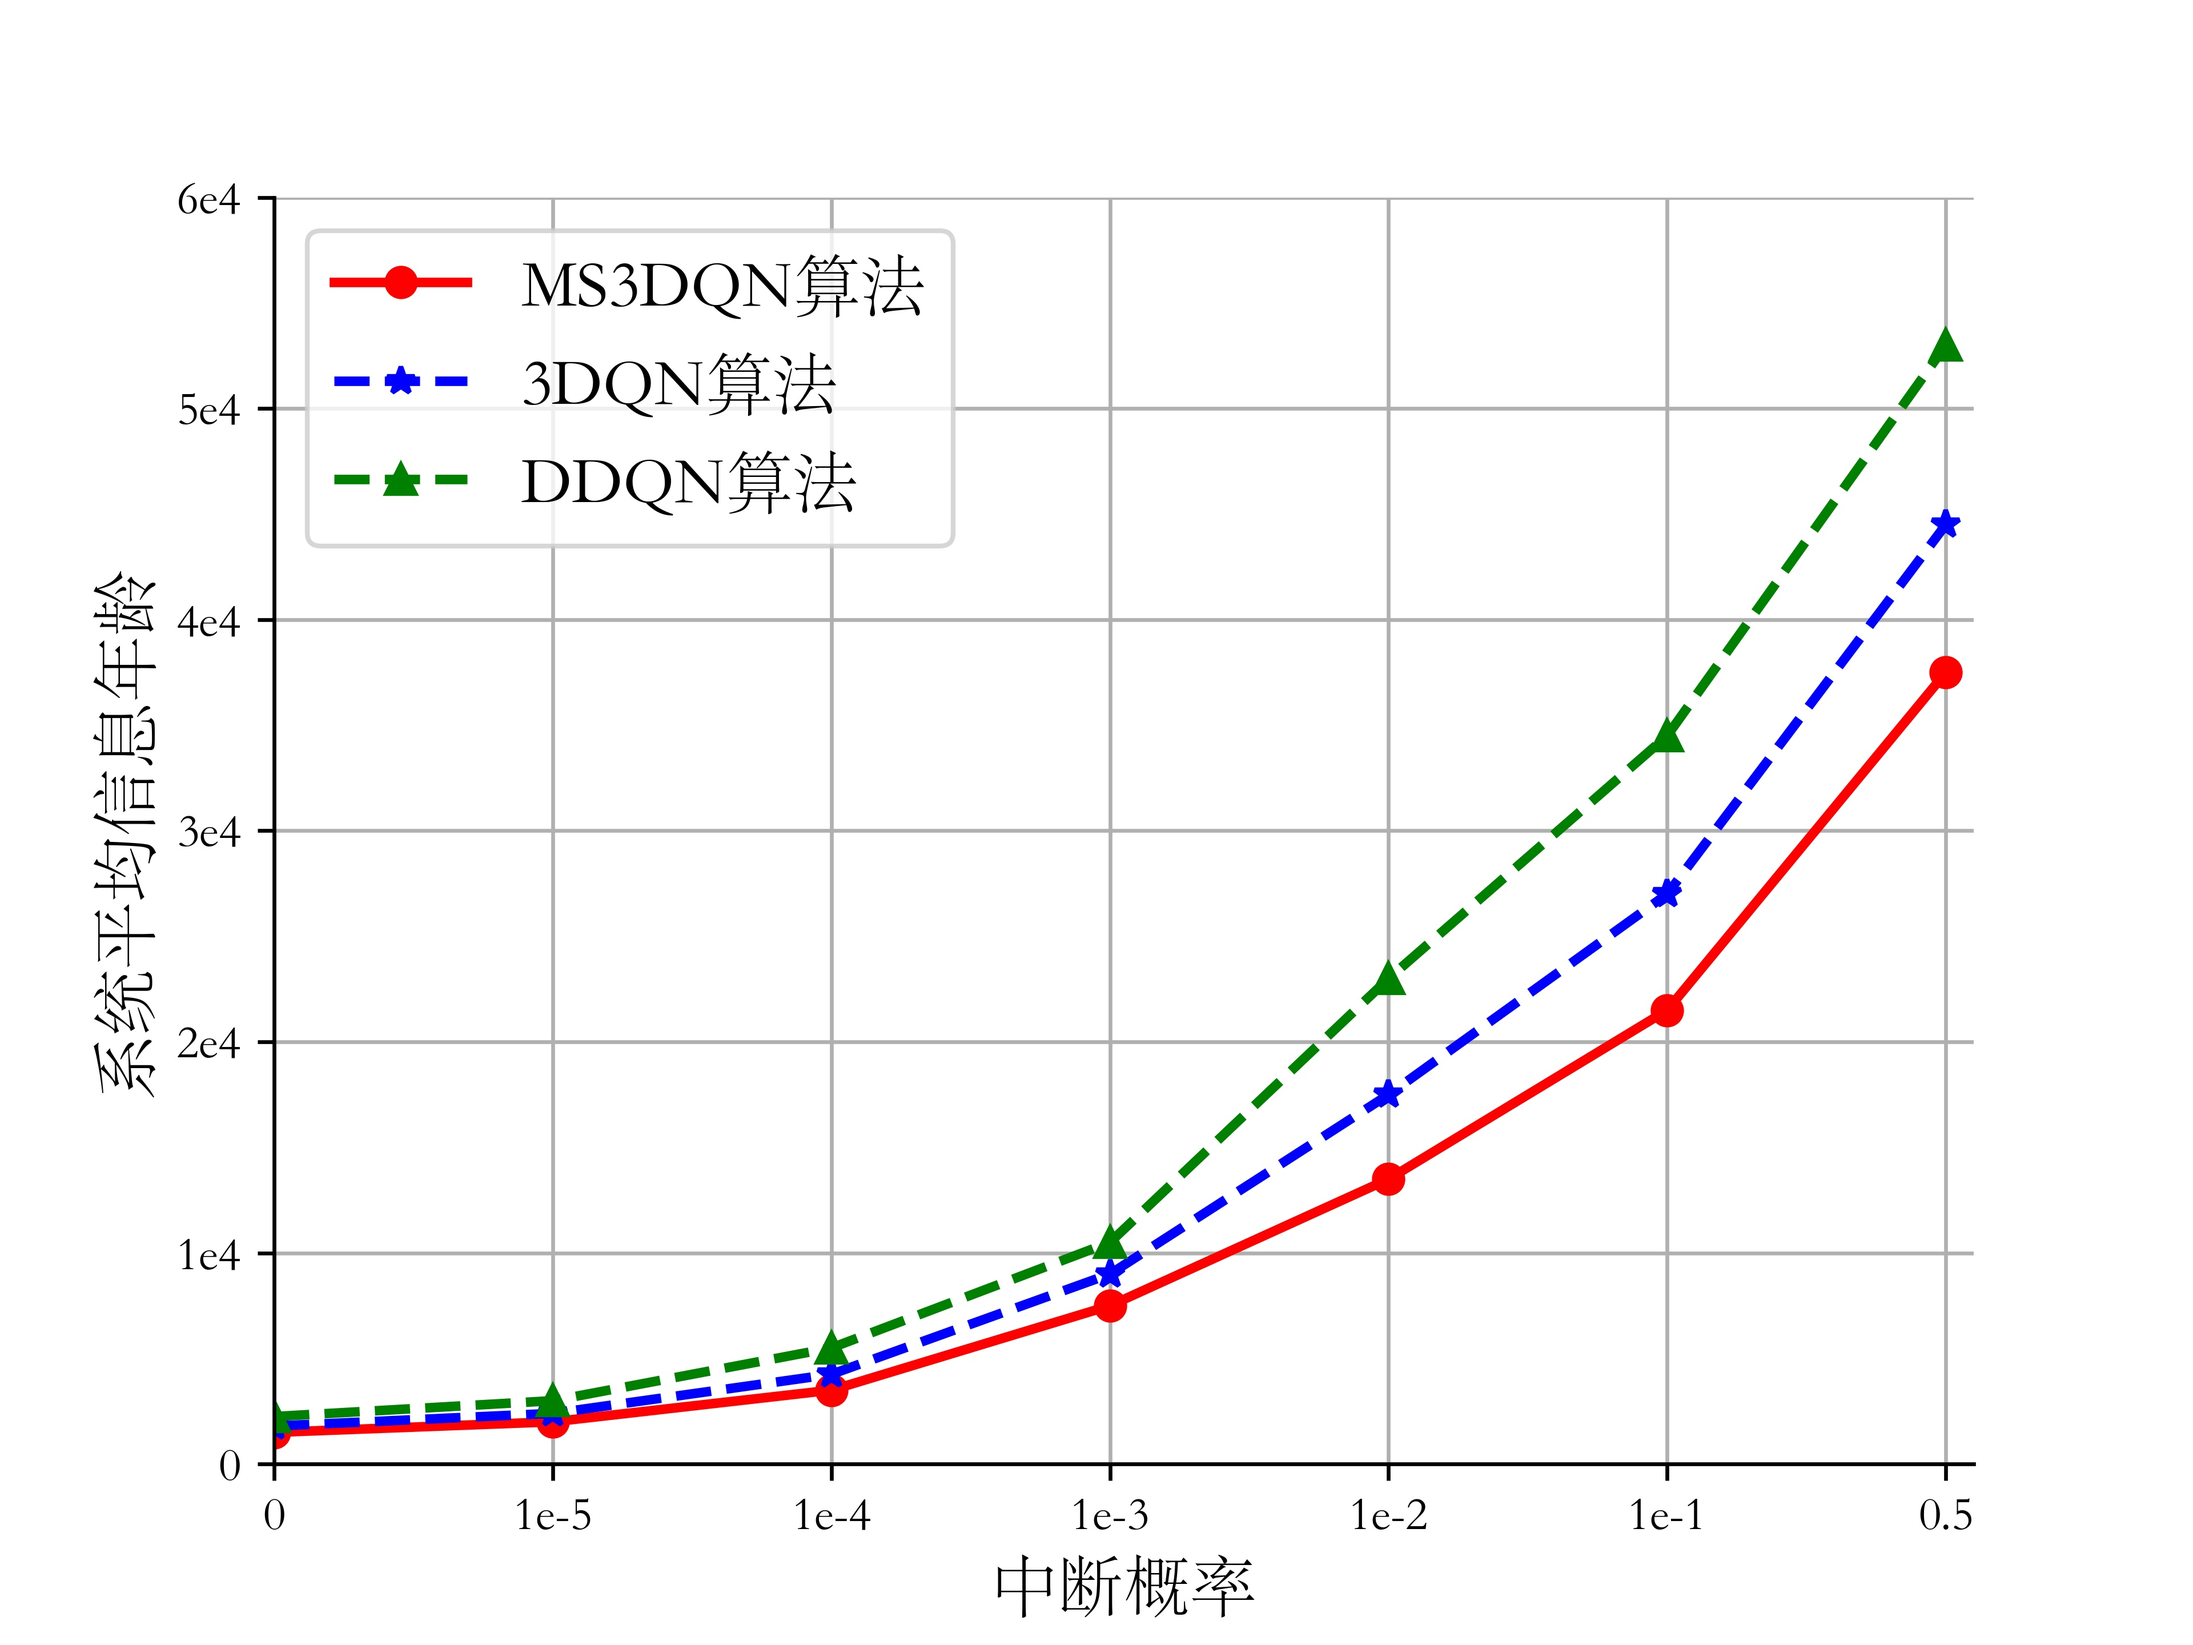
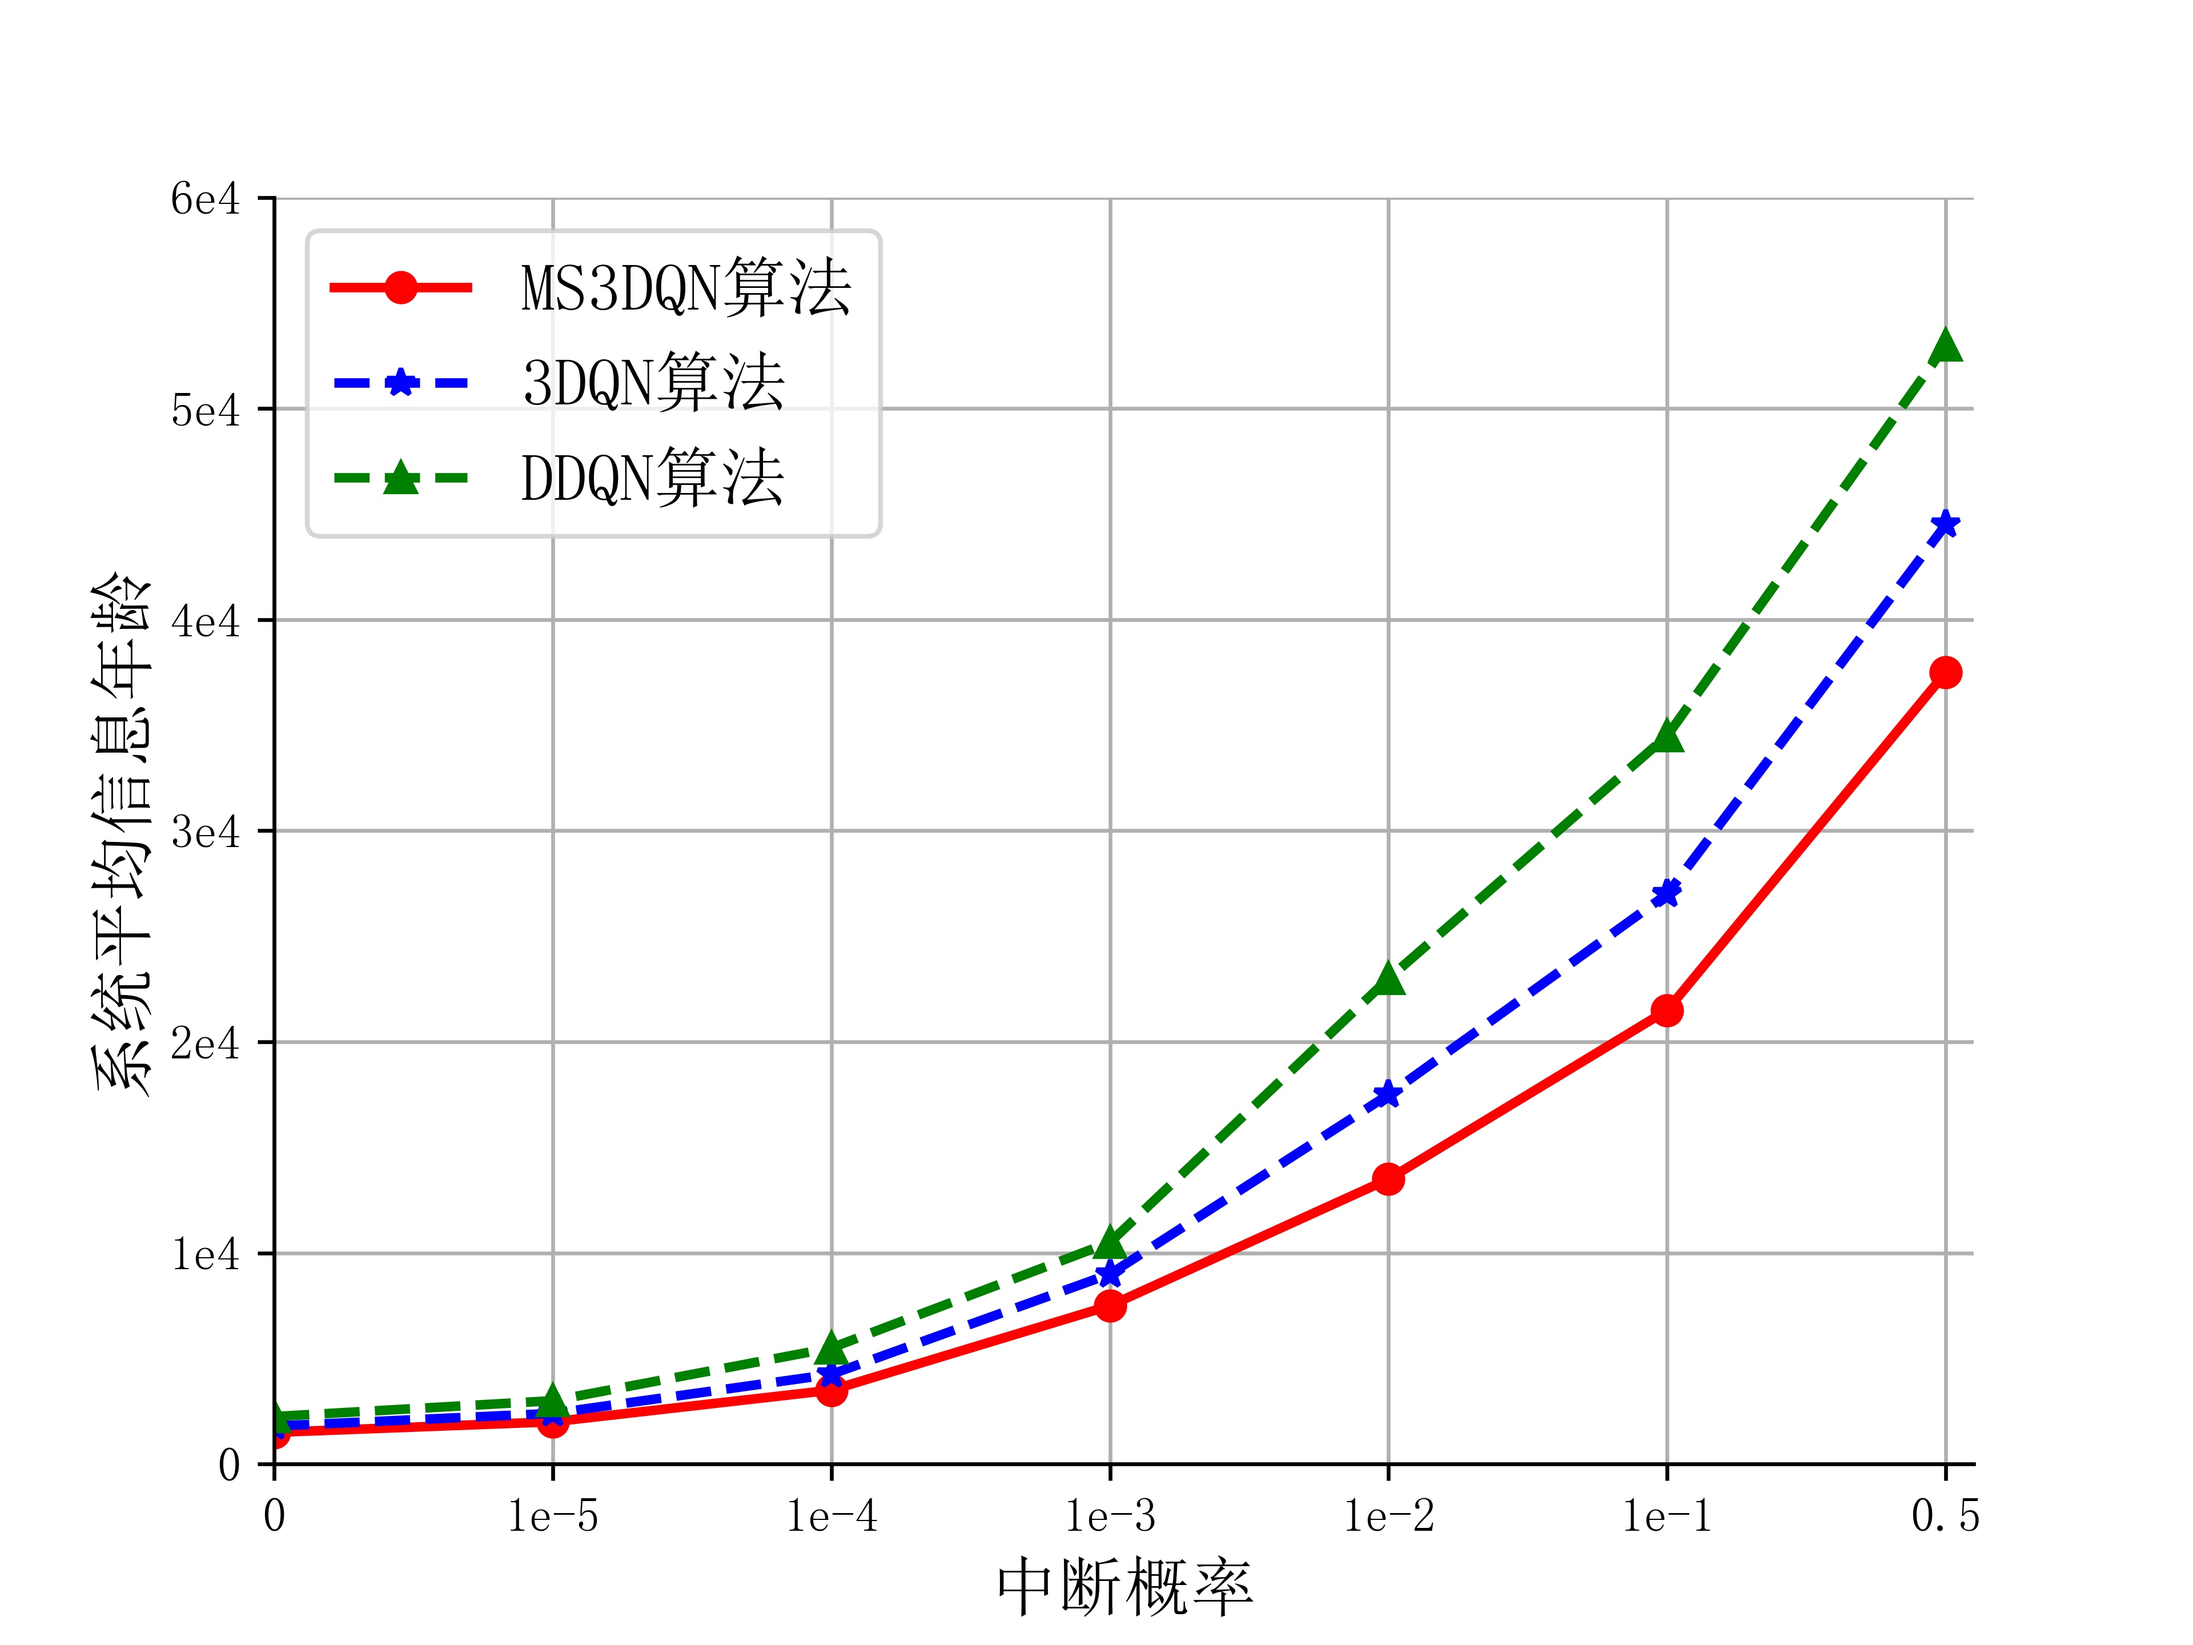
仿真代码完善

diff --git a/scheme1/plot_results.py b/scheme1/plot_results.py
@@ -54,8 +54,14 @@ trajecotry_mov_avg_DDQN_snr1 = result_DDQN_snr1['arr_2']
 # print(return_mov_avg_no_mapping)
 
 y=np.arange(0,5403,3)
-return_mov_avg_no_mapping[1300:1801]=return_mov_avg_no_mapping[1300:1801]*0.9
+return_mov_avg_no_mapping[1300:1801]=return_mov_avg_no_mapping[1300:1801]*0.88
+return_mov_avg_no_mapping4[800:1000]=return_mov_avg_no_mapping4[800:1000]*1.05
+return_mov_avg_no_mapping4[1100:1801]=return_mov_avg_no_mapping4[1100:1801]*0.96
+return_mov_avg_no_mapping4[1300:1500]=return_mov_avg_no_mapping4[1300:1500]*0.96
+return_mov_avg_no_mapping4[1400:1500]=return_mov_avg_no_mapping4[1400:1500]*0.99
+return_mov_avg_no_mapping4[1500:1565]=return_mov_avg_no_mapping4[1500:1565]*0.96
 return_mov_avg_no_mapping[1300:1360]=return_mov_avg_no_mapping[1300:1360]*1.06
+return_mov_avg_DDQN[1495:1530]=return_mov_avg_DDQN[1495:1530]*0.97
 # return_mov_avg_no_mapping4[]=
 fig = plt.figure('累积奖励曲线1')
 plt.xlim(0,5000)
@@ -68,13 +74,13 @@ plt.plot(y, return_mov_avg_DDQN, 'g-', linewidth=0.5)
 # plt.plot(np.arange(len(return_mov_avg_DDQN_snr2)), return_mov_avg_DDQN_snr2, 'm-', linewidth=0.5)
 print(len(return_mov_avg_no_mapping))
 plt.grid()
-plt.rcParams['font.sans-serif'] = ['STSong']
+plt.rcParams['font.sans-serif'] = ['SimSun']
 plt.rcParams['axes.unicode_minus'] = False
 plt.xlabel('训练回合数',fontdict={"size": 14})
 plt.ylabel('累积奖励值',fontdict={"size": 14})
 plt.legend(['MS3DQN算法','3DQN算法','DDQN算法'],loc='best',prop={ "size": 14})
 plt.savefig(fname='reward1.jpg',path='D:\PycharmProjects\SNARM-UAV-Learning\TEST_plot2',dpi=600)
-# plt.show()
+plt.show()
 
 
 # fig1 = plt.figure(100)

diff --git a/TEST_plot1/plot2.py b/TEST_plot1/plot2.py
@@ -18,7 +18,8 @@ plt.ylim(0,11e4)
 plt.xticks(x, labels=["0", "1e-5", "1e-4", "1e-3", "1e-2", "1e-1", "0.5"])
 plt.yticks(y, labels=["0", "1e4", "2e4", "3e4", "4e4", "5e4", "6e4"])
 plt.grid()
-plt.rcParams['font.sans-serif'] = ['STSong']
+# plt.rcParams['font.family'] = 'sans-serif'
+plt.rcParams['font.sans-serif'] = ['SimSun']
 plt.rcParams['axes.unicode_minus'] = False
 plt.plot(x, [0.3e4, 0.4e4, 0.7e4, 1.5e4, 2.7e4, 4.3e4, 7.5e4], 'o-r', linewidth=2, )
 plt.plot(x, [0.36e4, 0.48e4, 0.85e4, 1.8e4, 3.5e4, 5.4e4, 8.9e4], '*--b', linewidth=2)
@@ -26,5 +27,6 @@ plt.plot(x, [0.45e4, 0.6e4, 1.1e4, 2.1e4, 4.6e4, 6.9e4, 10.6e4], '^--g', linewid
 plt.xlabel('中断概率',fontdict={"size": 14})
 plt.ylabel('系统平均信息年龄',fontdict={"size": 14})
 plt.legend(['MS3DQN算法','3DQN算法','DDQN算法'],loc='best',prop={ "size": 14})
-plt.savefig(fname='outage.jpg',path='D:\PycharmProjects\SNARM-UAV-Learning\TEST_plot2',dpi=600)
+# plt.savefig(fname='outage.jpg',path='D:\PycharmProjects\SNARM-UAV-Learning\TEST_plot2',dpi=600)
+plt.savefig(fname='outage.jpg',dpi=600)
 plt.show()

diff --git a/TEST_plot1/plot3.py b/TEST_plot1/plot3.py
@@ -21,9 +21,9 @@ plt.grid()
 plt.plot(x, [3.15e3, 2.9e3, 1.95e3, 1.25e3, 1.25e3, 1.25e3, 1.25e3, 1.25e3], 'o-r', linewidth=2)
 plt.plot(x, [3.25e3, 3.15e3, 2.9e3, 2.32e3, 1.96e3, 1.75e3, 1.75e3, 1.75e3], '*--b', linewidth=2)
 plt.plot(x, [3.5e3, 3.42e3, 3.20e3, 2.85e3, 2.35e3, 2.1e3, 2e3, 2e3], '^--g', linewidth=2)
-plt.rcParams['font.sans-serif'] = ['STSong']
+plt.rcParams['font.sans-serif'] = ['SimSun']
 plt.rcParams['axes.unicode_minus'] = False
-plt.xlabel('无人机能量消耗 (kJ)',fontdict={"size": 14})
+plt.xlabel('无人机能耗 (kJ)',fontdict={"size": 14})
 plt.ylabel('系统平均信息年龄',fontdict={"size": 14})
 plt.legend(['MS3DQN算法','3DQN算法','DDQN算法'],loc='best',prop={ "size": 14})
 plt.savefig(fname='uav energy.jpg',path='D:\PycharmProjects\SNARM-UAV-Learning\TEST_plot2',dpi=600)
